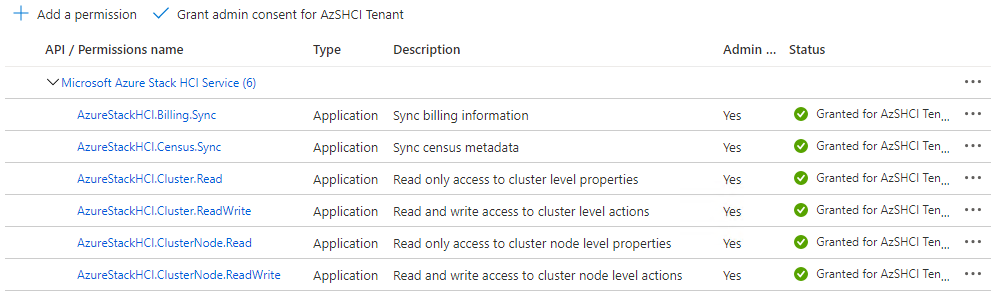
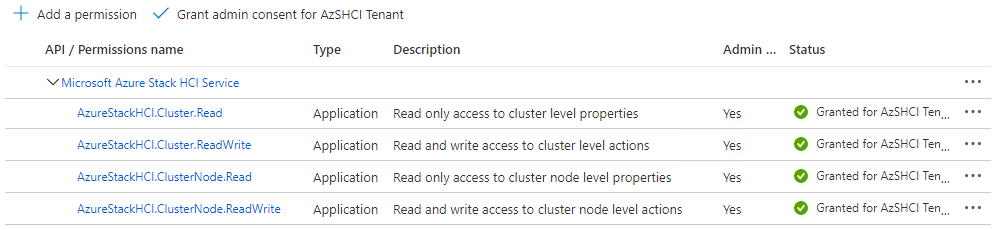
Updated Permissions Image

diff --git a/nested/steps/4_AzSHCICluster.md b/nested/steps/4_AzSHCICluster.md
@@ -436,10 +436,7 @@ With registration complete, either through Windows Admin Center, or through Powe
 
 ![Application ID in App Registrations in Azure](/media/azure_ad_app_ga.png "Application ID in App Registrations in Azure")
 
-16. Within the application, click on **API permissions**.  From there, you can see the **Configured permissions** which have been created as part of the **Register-AzureStackHCI** you ran earlier.  You can see that a number of services that have been granted appropriate permissions for both billing and cluster management. For reference, the Billing and Census sync APIs are described below:
-
-    * **AzureStackHCI.Billing.Sync** - Allows synchronizing billing information, such as the number of physical processor cores, between the Azure Stack HCI 20H2 cluster and the cloud
-    * **AzureStackHCI.Census.Sync** - Allows synchronizing census metadata, such as hardware vendor and software version, between the Azure Stack HCI 20H2 cluster and the cloud
+1.  Within the application, click on **API permissions**.  From there, you can see the **Configured permissions** which have been created as part of the **Register-AzureStackHCI** you ran earlier.  You can see that a number of services that have been granted appropriate permissions for billing and cluster management.
 
 Optionally, you can click on these services to see more information
 
